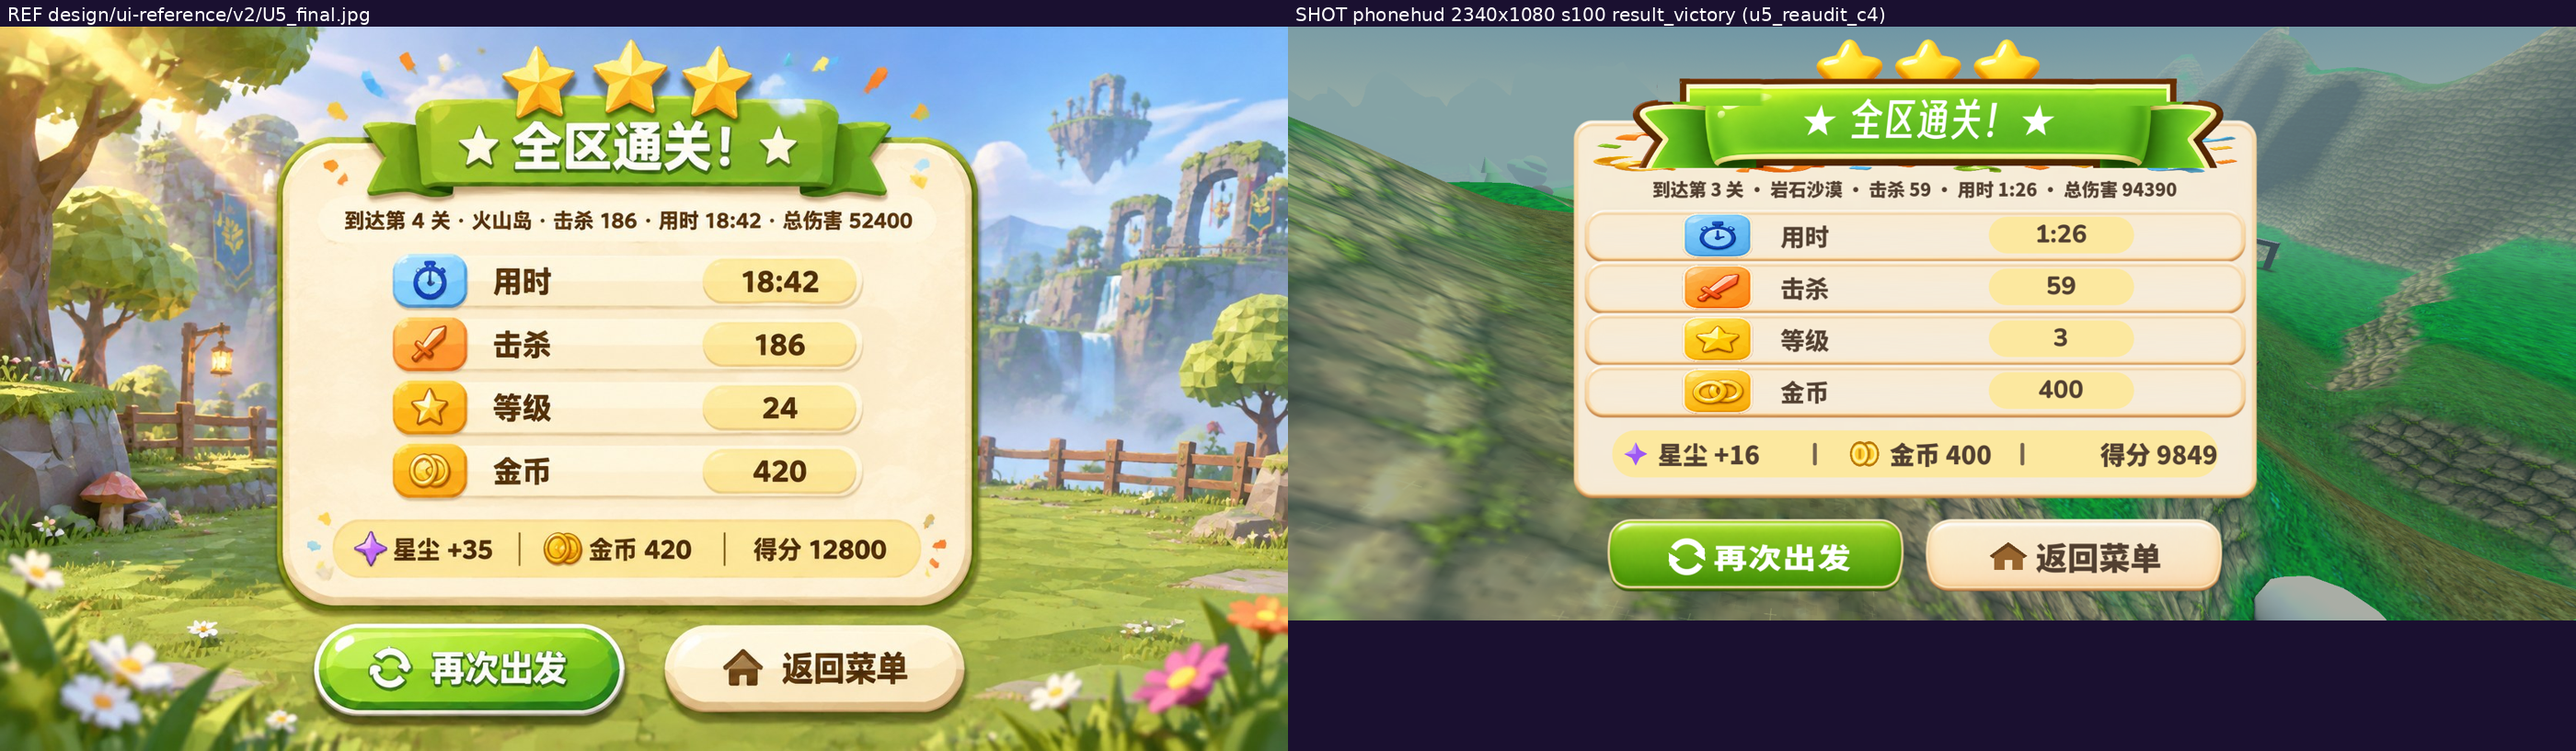
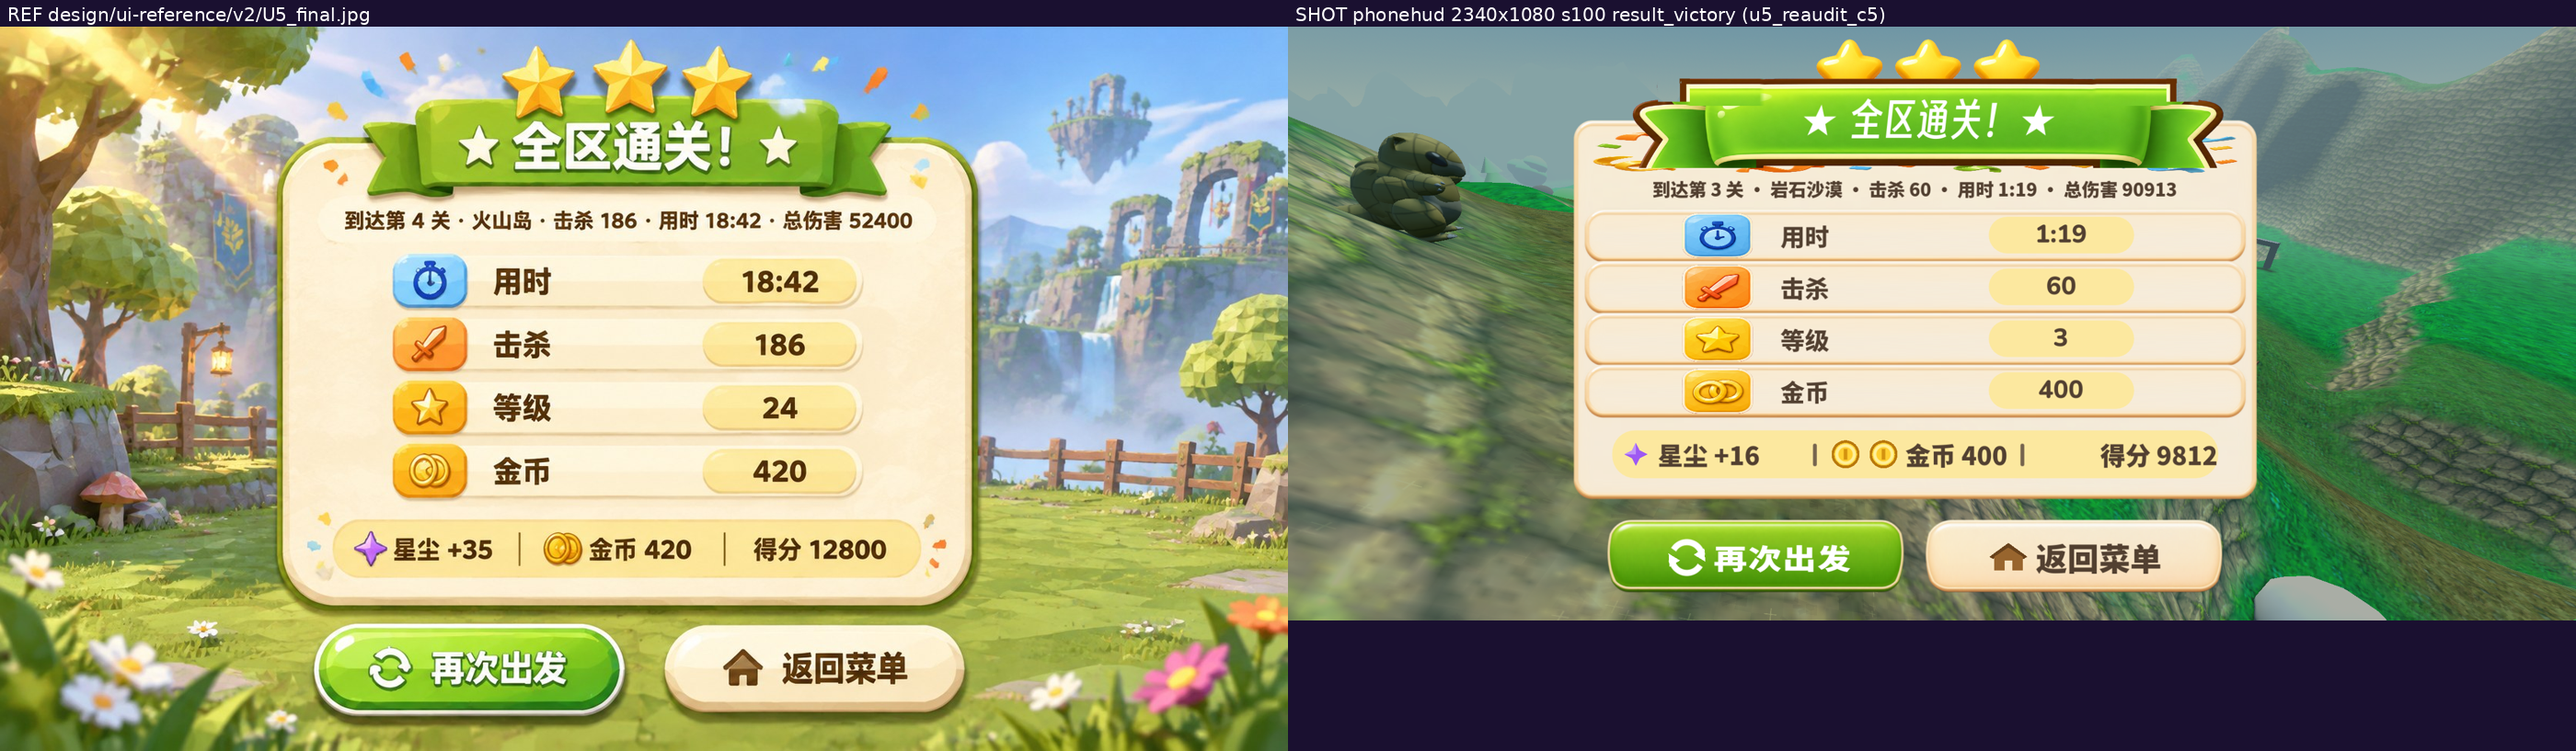
Ledger: U5 re-audit round 5 verified (coins 5.09x4.72 vs 5.08x4.68, batch 1549/0+1549/0); font ruling pending coordinator (12:2x worker)

Changed region(s): [[0.6214, 0.5814, 0.87, 0.7956], [0.5282, 0.1836, 0.5904, 0.3366], [0.7768, 0.3672, 0.8079, 0.3978]]

diff --git a/design/ui-alignment-progress.md b/design/ui-alignment-progress.md
@@ -1351,3 +1351,18 @@ U1 已重开，U3 不得开工（见「关闭门」）。第 9 轮：2340 复验
 - 同步：反向 rsync NUC .git 前后共遇 5 次「Connection closed by UNKNOWN port 65535」传输抖动（含 1 次纯探针失败），重试＋退避后恢复；铁律未破——反向同步完成（VM .git 到 408629a）后才跑 sync_to_nuc；parity 910 文件 0 diff。另记：反向同步后工作树台账文件须单文件 `git checkout --` 对齐新 HEAD，**切勿 reset --hard**（会抹掉未提交交付）。
 - Parse 门 Test/u5_reaudit_c5_parse.sh（NUC）：world.gd rc=0、ui_icon.gd rc=0。
 - 提交 bc9ef86 已推送（ls-remote 核验）；验证批 Test/u5_reaudit_c5_run.sh 11:34:29 起跑，.done 路径 Test/out/u5_reaudit_c5.done，预计 ALLDONE 约 12:00–12:05。**下一轮只监看批、取新拍复测（金币 dark-gold 法宽×高双目标）、重建 compare、亲检再议签核。** U5 未关闭；U1 复审仍不开。
+
+## U5 复审 Codex 第五轮验收（2026-11-16 12:1x 轮，worker 同法复测＋亲检）
+
+- 主控已接手第五轮交付：diff 核对（34 设计 px 换算正确、part==2 END 合意）→ changes.md（.tmp/u5_reaudit_codex5_changes.md，本地在位、NUC 侧未入库）→ 提交 bc9ef86 → 推送（ls-remote 核验）→ parse 门 rc=0 → 验证批 Test/u5_reaudit_c5_run.sh 11:34:29 起跑。
+- 批次 Test/out/u5_reaudit_c5.done ALLDONE 12:03:08：2400 s100 **1549/0**、2340 s100 **1549/0**（FAIL 行 0 条；SCRIPT ERROR 0 条）。双档新拍＋双日志已拉回逐字节核验（2340 md5 b02e32ea、2400 md5 6403131c；pull 5 文件 6722495 字节已验）。**覆盖说明**：2340 腿 1549 而非 c4 的 1564——差 15 项全是 full_prompt 段的横幅（banner）瞬态检查：本轮 2340 腿横幅在检查时刻未出现故未跑（c4 2340 跑过且全过、c4/c5 的 2400 腿均为 91 项未跑横幅）；非失败、非回归，系时序跳过，在案。
+- 同步：本机 .git 已按铁律反向 rsync 回 NUC HEAD 097bdfe 并 reset，world.gd／ui_icon.gd md5 与交付一致（4f514579…／d4a2d568…），工作树已跟踪文件干净（仅既有未跟踪 .import 残留，不动）。rsync 尾部 chown 警告 rc=23 系接收端属主不可改、内容已落地（git log／reset／md5 三重核验），非失败。
+- 复测（2340＋2400 双档，同法；脚本沿用 c4 套件，结果存 .tmp/u5_reaudit_c5_*.txt）：
+  - ✅ **汇总金币图标落定（第五轮唯一任务）**：dark-gold 法 2340 宽 5.09%W × 高 4.72%H（定稿 5.08×4.68；c4 为 2.26×4.26），x 42.22..47.26 vs 定稿 42.17..47.19，y 69.63..74.26 vs 69.82..74.39；2400 腿 5.00×4.72。extra 亮面法 4.74%W（c4 为 1.97）。**宽高双目标达成**。
+  - △ 金币内形（6 倍放大亲验，裁切 .tmp/u5_reaudit_c5_coins6x_{ref,cap}.png）：定稿为两枚交叠的渲染金币（左枚压右枚、无竖条、有内弧光泽）；我方为两枚分离整圆＋各带中央竖条、间隙约 0.76%W。1x compare 尺度下仅读作“两枚金币”、不可辨；**按复审口径列入纹理族**（与三星偏小、缎带描边、钮面扁平同类；简报处方 A 本就定“两枚整圆”，几何外框已达标）。如主控认为内形须改，第六轮处方为圆心靠拢交叠＋去竖条。
+  - ✅ 汇总 pill inset 保持：goldfill 法 2340 x 25.30..72.05（边距各 2.74%W，c4 同值）；2400 腿 25.92..71.46。汇总带 scan2 goldblob5 68.06..75.93 vs 定稿 68.01..75.98。面板框 22.56..74.79／16.20..78.70 vs 定稿 22.43..74.88／16.37..78.64。行心 35.05／43.80／52.50／61.25、值 pill 右缘 65.64、行标签字 cap 3.80、tile 左缘 30.81、标题字形 6.39、绿钮字 4.35（type2）、奶油钮字 5.09（type；type2 的 7.87 仍为钮下深色岩石背景污染，同 c4 定性勿误判）、汇总星 h 3.70——全部与 c4 一致，保持。
+  - △ **摘要 dark 像素跳变已查明、非回归**：extra 全宽法 2340 腿 36719（c4 为 23080），2400 腿 22986（c4 为 23041）。裁切亲验两腿摘要带文字字重一致；面板内限定量 dark 计数 2340＝18698、2400＝18625——**差值全在面板外的 3D 背景**（2340 腿左缘一头深色 3D 生物正压在带区）。方法教训：extra 的摘要 dark 全宽代理对带区外背景敏感，跨轮对比须用面板内限定量；摘要字本身无变化。
+  - △ **汇总字尺寸复核（主控 09:4x defer 项，本轮已做）**：数字法重测——得分数字 cap 高（90 分位列高法）ref 2.44 vs 我方 2.96（2340）／3.06（2400），即 +21～+25%；c3 同法实现曾报 3.06 vs 2.76（+11%），两实现在定稿值上差 0.32%H，系阈值／JPEG 柔化敏感。但**字宽法反证字号无误**：得分数字单字宽 ref 1.17%W vs 我方 1.13%W（-3%）；“金币 420/400”三字串 ref 3.5%W vs 我方 3.7%W（+6%）。字宽是最稳的字号代理——字号大 15% 的话字宽应同比例大，实测没有。**worker 评估：汇总字号大概率本就正确，高法差距主因是定稿 JPEG 边缘柔化导致 dark mask 在定稿字顶／底各削约 1px；建议主控裁定不改字号**。若主控仍判改，第六轮只动汇总字号、不碰金币。
+- 亲检：compare/U5.png（83ee39ba…）与 compare/U5_2400.png（71953557…）已以第五轮双档新拍重建（Test/make_compare_u5.py，标签 u5_reaudit_c5），逐项看过——与上述量测一致；payout／summary／coins 裁切（.tmp/u5_reaudit_c5_cap_*、coins6x_*）逐一看过。2400 腿同残差、无新增项。纹理／素材族仍在范围外，不入本轮代码结论。
+- **结论：U5 未关闭**——仅剩主控待裁的一项（汇总字号：worker 建议不改、附字宽反证；待主控点头）。若主控裁定不改，下一轮即可议签核；若判改，派第六轮（唯一任务＝汇总字号）。本屏仍不开 U1 复审。Notion 对齐单未动（U5 未关闭）。
+- 本轮提交：本节台账＋重建的 compare/U5.png、compare/U5_2400.png（随本提交推送）；量测脚本结果与裁切图留 .tmp（u5_reaudit_c5_*）。
